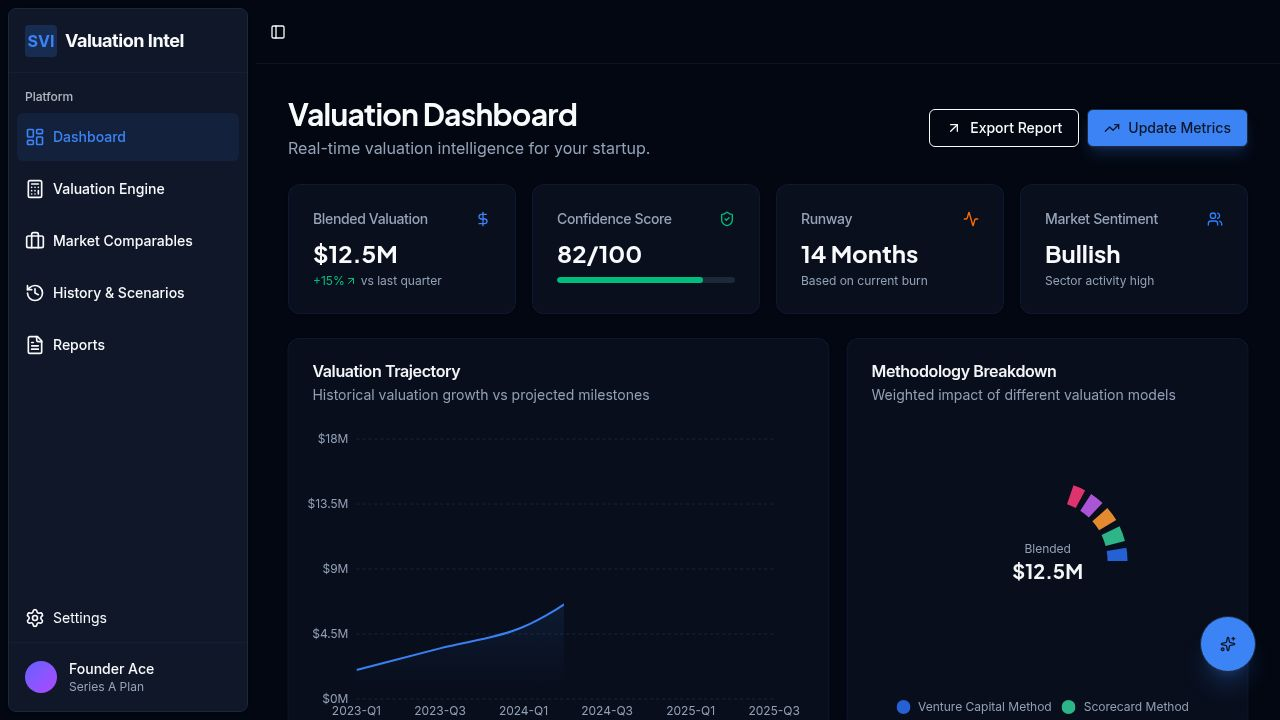
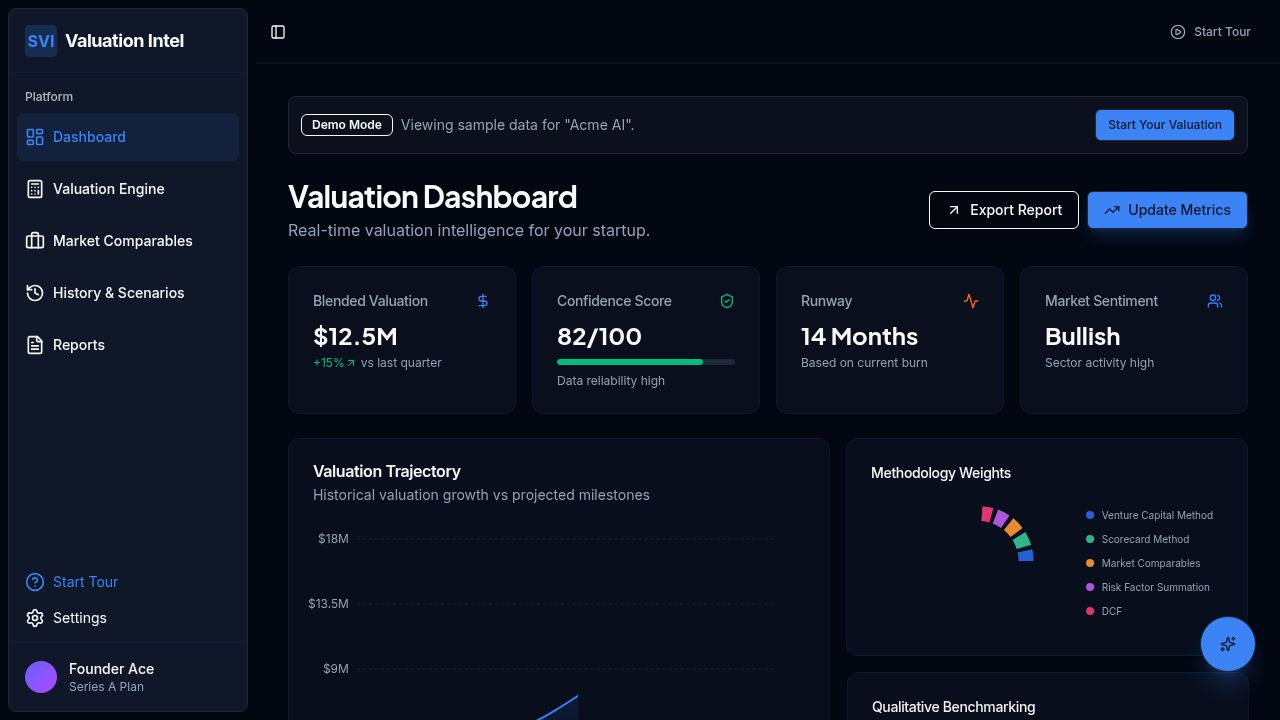
Start an interactive tour automatically after completing onboarding
Automatically start the interactive tour by setting a localStorage flag upon onboarding completion or demo mode selection.

Replit-Commit-Author: Agent
Replit-Commit-Session-Id: 7bc2ee3d-92ad-4068-ba80-ffaf64297288
Replit-Commit-Checkpoint-Type: full_checkpoint
Replit-Commit-Event-Id: 726f3de4-1f2e-4ded-a93f-446ef9431638
Replit-Commit-Screenshot-Url: https://storage.googleapis.com/screenshot-production-us-central1/4afde3b5-5e55-4c2f-9a93-f74c7108d009/7bc2ee3d-92ad-4068-ba80-ffaf64297288/PHlOlsa
Replit-Helium-Checkpoint-Created: true

diff --git a/client/src/components/layout/AppLayout.tsx b/client/src/components/layout/AppLayout.tsx
@@ -9,14 +9,24 @@ import { PlayCircle } from "lucide-react";
 export default function AppLayout({ children }: { children: React.ReactNode }) {
   const [runTour, setRunTour] = React.useState(false);
 
-  // Check if it's the first visit
+  // Check if it's the first visit or if tour is requested
   React.useEffect(() => {
+    // Check for explicit start request (from onboarding)
+    const shouldStartTour = localStorage.getItem('start-tour');
+    if (shouldStartTour) {
+        setRunTour(true);
+        localStorage.removeItem('start-tour');
+        return;
+    }
+
+    // Optional: First visit check (currently disabled)
+    /*
     const hasSeenTour = localStorage.getItem('svi-tour-seen');
     if (!hasSeenTour) {
-        // Optional: Auto-start tour on first visit
         // setRunTour(true);
         // localStorage.setItem('svi-tour-seen', 'true');
     }
+    */
   }, []);
 
   return (

diff --git a/client/src/pages/Onboarding.tsx b/client/src/pages/Onboarding.tsx
@@ -61,6 +61,7 @@ export default function Onboarding() {
 
   const handleDemoMode = () => {
     setDemoMode(true);
+    localStorage.setItem('start-tour', 'true');
     setLocation("/");
   };
 
@@ -92,6 +93,7 @@ export default function Onboarding() {
     setMethodology(formData.methodology);
     
     completeOnboarding();
+    localStorage.setItem('start-tour', 'true');
     setLocation("/");
   };
   
